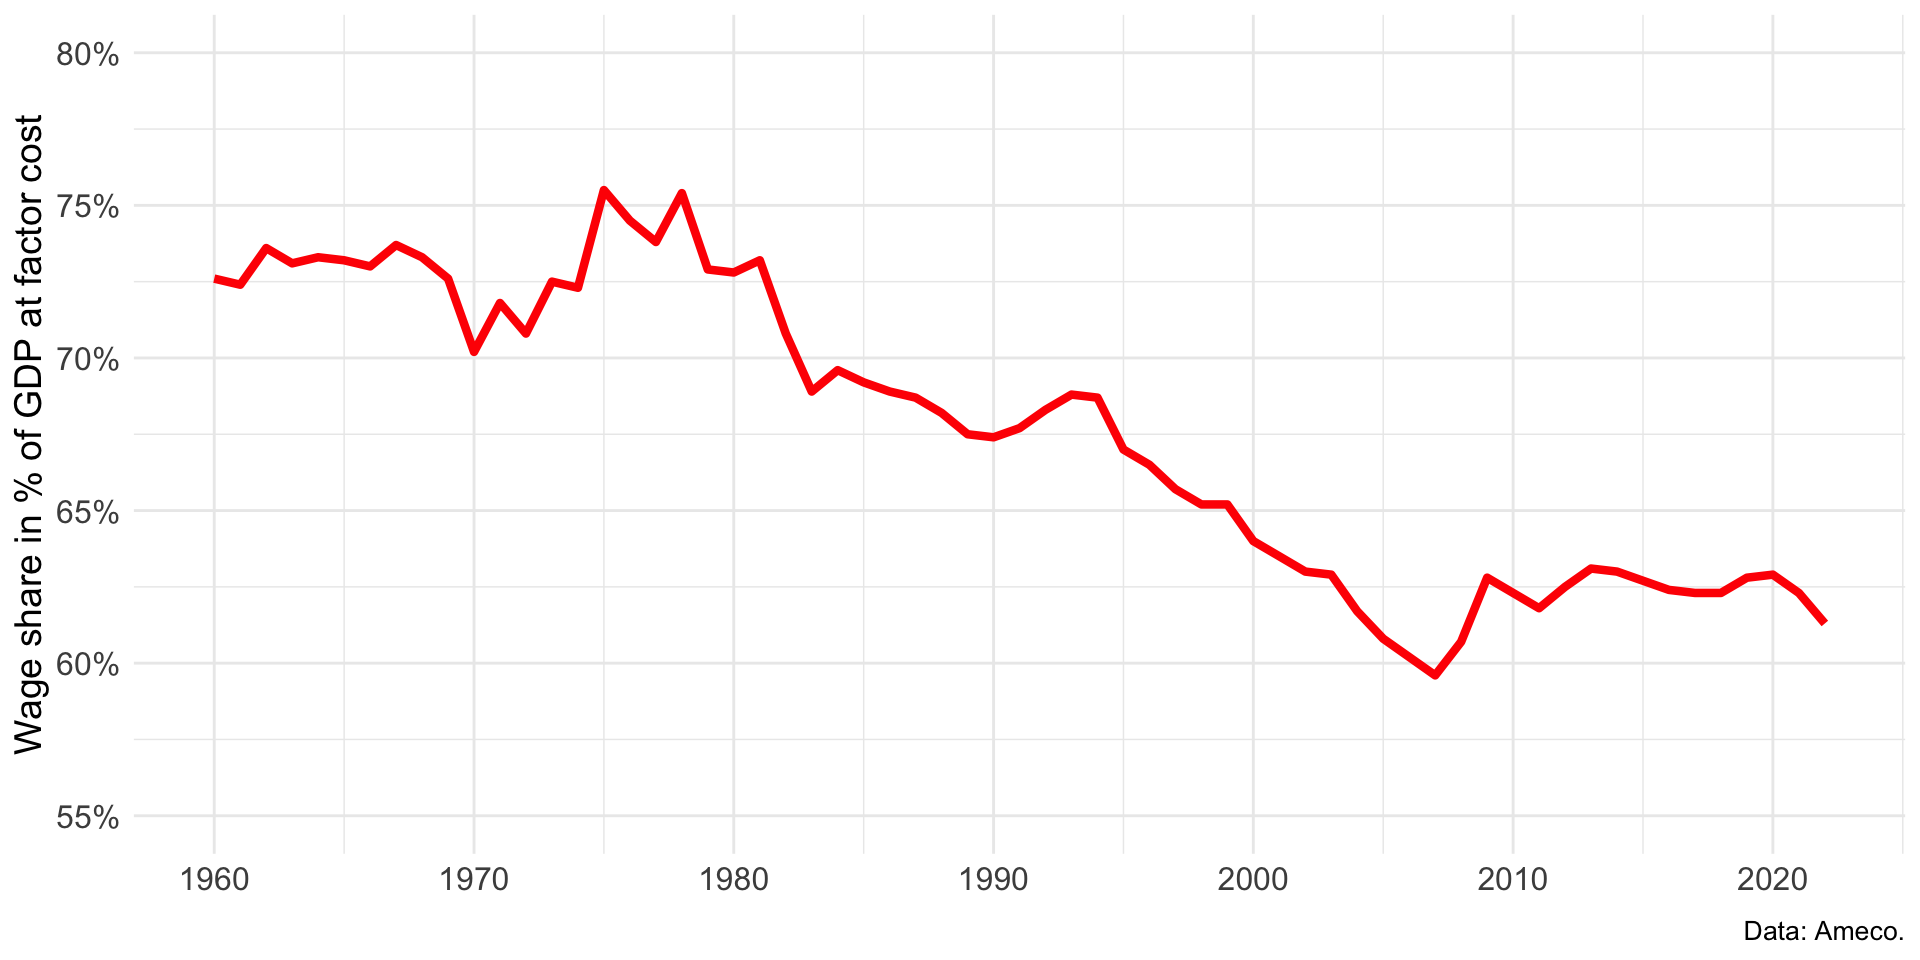
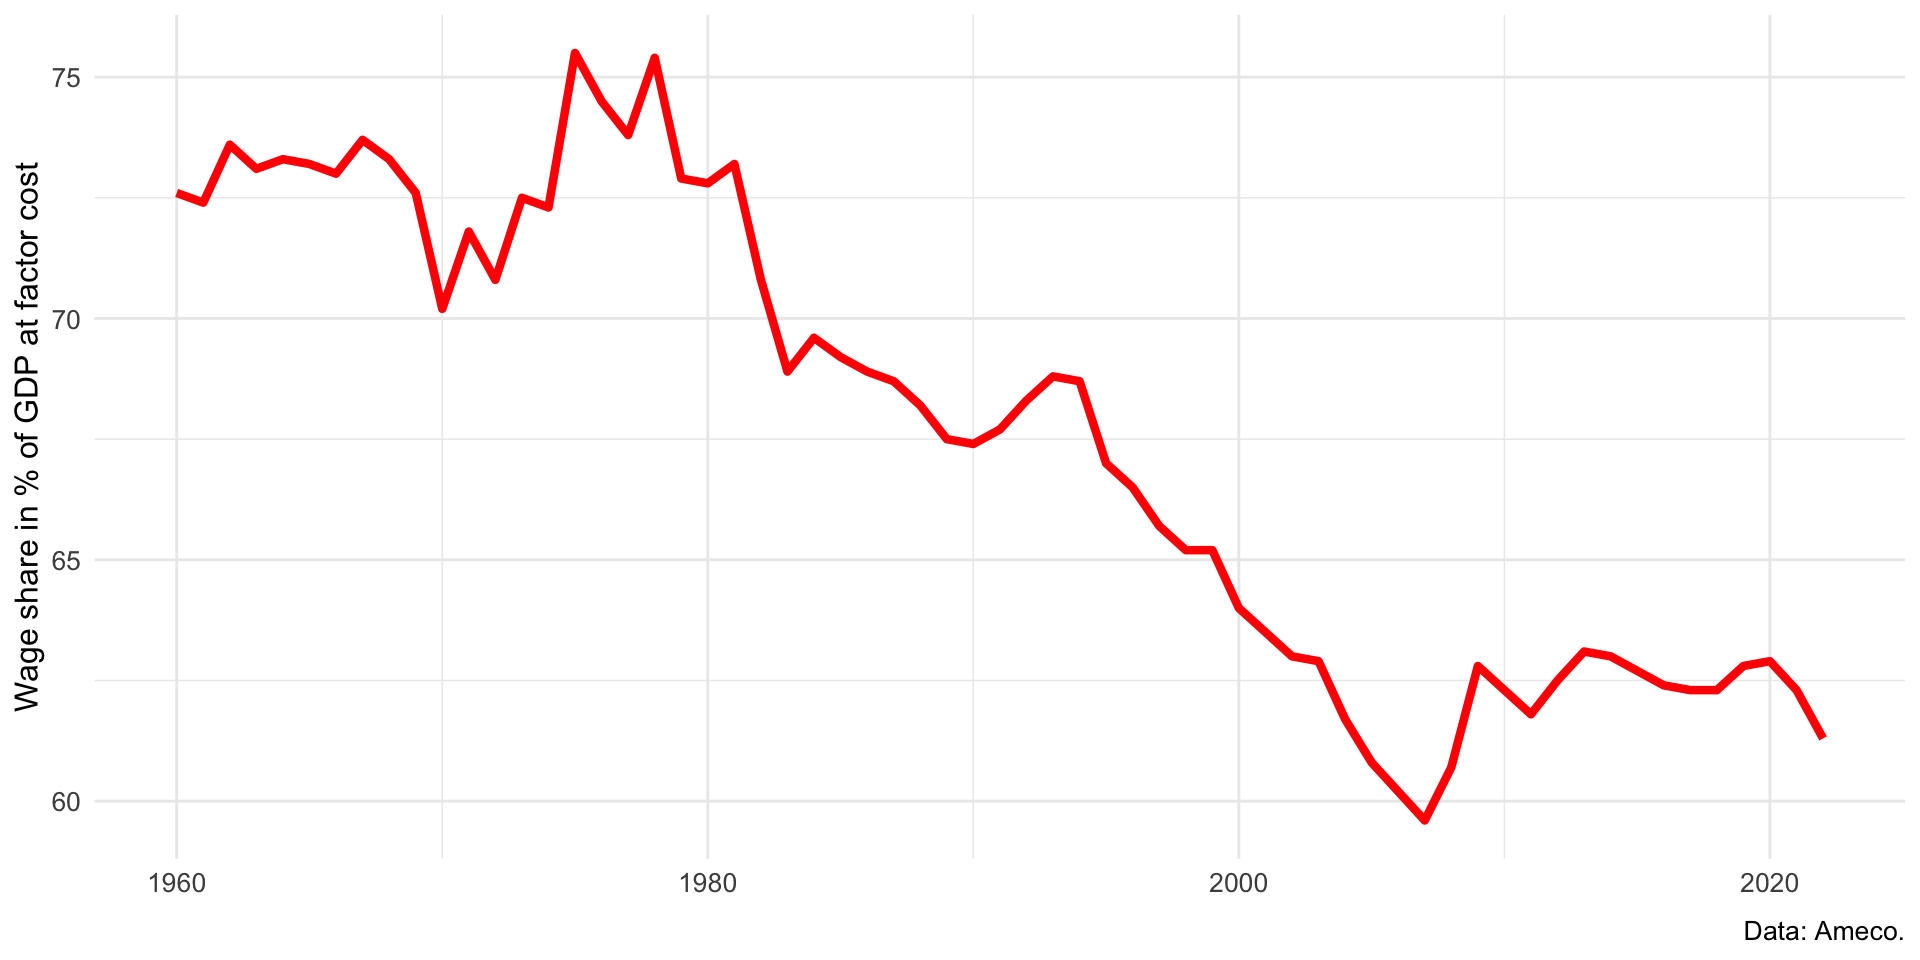
Built site for gh-pages

diff --git a/data/code/07_income.html b/data/code/07_income.html
@@ -211,6 +211,12 @@ code span.wa { color: #60a0b0; font-weight: bold; font-style: italic; } /* Warni
 <p><img src="07_income_files/figure-html/austria-1.png" class="img-fluid" width="960"></p>
 </div>
 </div>
+<p>We can improve the figure by editing the scales of the axes. We add percentage symbols to the y-axis and we remove the white space on the x-axis.</p>
+<div class="cell">
+<div class="cell-output-display">
+<p><img src="07_income_files/figure-html/autwithscales-1.png" class="img-fluid" width="960"></p>
+</div>
+</div>
 </section>
 <section id="wage-shares-in-selected-international-countries" class="level3">
 <h3 class="anchored" data-anchor-id="wage-shares-in-selected-international-countries">Wage shares in selected international countries</h3>
@@ -225,24 +231,29 @@ code span.wa { color: #60a0b0; font-weight: bold; font-style: italic; } /* Warni
 <h3 class="anchored" data-anchor-id="code-for-the-figure">Code for the figure</h3>
 <p>Here is the <strong>clean code</strong> for the figure on the functional distribution.</p>
 <div class="cell">
-<div class="sourceCode cell-code" id="cb1"><pre class="sourceCode r code-with-copy"><code class="sourceCode r"><span id="cb1-1"><a href="#cb1-1" aria-hidden="true" tabindex="-1"></a><span class="fu">library</span>(gghighlight)</span>
-<span id="cb1-2"><a href="#cb1-2" aria-hidden="true" tabindex="-1"></a>wsdata <span class="sc">|&gt;</span></span>
-<span id="cb1-3"><a href="#cb1-3" aria-hidden="true" tabindex="-1"></a>  <span class="fu">ggplot</span>(<span class="fu">aes</span>(<span class="at">x =</span> year, <span class="at">y =</span> value, <span class="at">group =</span> country, <span class="at">color =</span> country)) <span class="sc">+</span></span>
-<span id="cb1-4"><a href="#cb1-4" aria-hidden="true" tabindex="-1"></a>  <span class="fu">geom_line</span>(<span class="at">linewidth =</span> <span class="fl">1.2</span>) <span class="sc">+</span></span>
-<span id="cb1-5"><a href="#cb1-5" aria-hidden="true" tabindex="-1"></a>  <span class="fu">gghighlight</span>(country <span class="sc">==</span> <span class="st">"Austria"</span>, <span class="at">unhighlighted_params =</span> <span class="fu">list</span>(<span class="at">color =</span> <span class="st">"gray80"</span>, <span class="at">alpha =</span> <span class="fl">0.5</span>),</span>
+<div class="sourceCode cell-code" id="cb1"><pre class="sourceCode r code-with-copy"><code class="sourceCode r"><span id="cb1-1"><a href="#cb1-1" aria-hidden="true" tabindex="-1"></a>wsdata <span class="sc">|&gt;</span></span>
+<span id="cb1-2"><a href="#cb1-2" aria-hidden="true" tabindex="-1"></a>  <span class="fu">ggplot</span>(<span class="fu">aes</span>(<span class="at">x =</span> year, <span class="at">y =</span> value, <span class="at">group =</span> country, <span class="at">color =</span> country)) <span class="sc">+</span></span>
+<span id="cb1-3"><a href="#cb1-3" aria-hidden="true" tabindex="-1"></a>  <span class="fu">geom_line</span>(<span class="at">linewidth =</span> <span class="fl">1.4</span>) <span class="sc">+</span></span>
+<span id="cb1-4"><a href="#cb1-4" aria-hidden="true" tabindex="-1"></a>  <span class="fu">gghighlight</span>(country <span class="sc">==</span> <span class="st">"Austria"</span>, </span>
+<span id="cb1-5"><a href="#cb1-5" aria-hidden="true" tabindex="-1"></a>              <span class="at">unhighlighted_params =</span> <span class="fu">list</span>(<span class="at">color =</span> <span class="st">"gray80"</span>, <span class="at">alpha =</span> <span class="fl">0.5</span>, <span class="at">linewidth =</span> <span class="fl">0.9</span>),</span>
 <span id="cb1-6"><a href="#cb1-6" aria-hidden="true" tabindex="-1"></a>              <span class="at">line_label_type =</span> <span class="st">"label_path"</span>, <span class="at">label_key =</span> country, <span class="at">use_group_by =</span> F,</span>
 <span id="cb1-7"><a href="#cb1-7" aria-hidden="true" tabindex="-1"></a>              <span class="at">label_params =</span> <span class="fu">list</span>(<span class="at">size =</span> <span class="dv">3</span>, <span class="at">hjust =</span> <span class="fl">0.94</span>)) <span class="sc">+</span></span>
-<span id="cb1-8"><a href="#cb1-8" aria-hidden="true" tabindex="-1"></a>  <span class="fu">scale_color_manual</span>(<span class="at">name =</span> <span class="cn">NULL</span>, <span class="at">values =</span> <span class="fu">met.brewer</span>(<span class="st">"Austria"</span>),) <span class="sc">+</span></span>
-<span id="cb1-9"><a href="#cb1-9" aria-hidden="true" tabindex="-1"></a>  <span class="fu">scale_x_date</span>(<span class="at">breaks=</span> <span class="fu">seq</span>(<span class="fu">min</span>(wsdata<span class="sc">$</span>year),<span class="fu">max</span>(wsdata<span class="sc">$</span>year), <span class="at">by =</span> <span class="st">"10 years"</span>), <span class="at">date_labels =</span> <span class="st">"%Y"</span>) <span class="sc">+</span></span>
-<span id="cb1-10"><a href="#cb1-10" aria-hidden="true" tabindex="-1"></a>  <span class="fu">scale_y_continuous</span>(<span class="at">limits =</span> <span class="fu">c</span>(<span class="dv">55</span>,<span class="dv">80</span>), <span class="at">labels =</span> scales<span class="sc">::</span><span class="fu">percent_format</span>(<span class="at">scale =</span> <span class="dv">1</span>)) <span class="sc">+</span></span>
-<span id="cb1-11"><a href="#cb1-11" aria-hidden="true" tabindex="-1"></a>  <span class="fu">labs</span>(<span class="at">y =</span> <span class="st">"Wage share in % of GDP at factor cost"</span>, <span class="at">x =</span> <span class="cn">NULL</span>, </span>
-<span id="cb1-12"><a href="#cb1-12" aria-hidden="true" tabindex="-1"></a>      <span class="at">caption =</span> <span class="st">"Data: Ameco."</span>) <span class="sc">+</span></span>
-<span id="cb1-13"><a href="#cb1-13" aria-hidden="true" tabindex="-1"></a>  <span class="fu">theme_minimal</span>() <span class="sc">+</span> </span>
-<span id="cb1-14"><a href="#cb1-14" aria-hidden="true" tabindex="-1"></a>  <span class="fu">theme</span>(<span class="at">legend.text =</span> <span class="fu">element_text</span>(<span class="at">size =</span> <span class="dv">14</span>),</span>
-<span id="cb1-15"><a href="#cb1-15" aria-hidden="true" tabindex="-1"></a>        <span class="at">legend.position =</span> <span class="fu">c</span>(<span class="fl">0.8</span>,<span class="fl">0.8</span>),</span>
-<span id="cb1-16"><a href="#cb1-16" aria-hidden="true" tabindex="-1"></a>        <span class="at">plot.caption =</span> <span class="fu">element_text</span>(<span class="at">size =</span> <span class="dv">10</span>, <span class="at">margin =</span> <span class="fu">margin</span>(<span class="at">t =</span> <span class="dv">1</span>, <span class="at">unit =</span> <span class="st">"lines"</span>)),</span>
-<span id="cb1-17"><a href="#cb1-17" aria-hidden="true" tabindex="-1"></a>        <span class="at">axis.title =</span> <span class="fu">element_text</span>(<span class="at">size =</span> <span class="dv">14</span>),</span>
-<span id="cb1-18"><a href="#cb1-18" aria-hidden="true" tabindex="-1"></a>        <span class="at">axis.text =</span> <span class="fu">element_text</span>(<span class="at">size =</span> <span class="dv">12</span>))</span></code><button title="Copy to Clipboard" class="code-copy-button"><i class="bi"></i></button></pre></div>
+<span id="cb1-8"><a href="#cb1-8" aria-hidden="true" tabindex="-1"></a>  <span class="fu">geom_text_repel</span>(<span class="at">data =</span> wsdata <span class="sc">|&gt;</span> <span class="fu">slice_max</span>(year, <span class="at">n=</span><span class="dv">1</span>, <span class="at">by=</span>country) <span class="sc">|&gt;</span> <span class="fu">filter</span>(<span class="sc">!</span>country <span class="sc">==</span> <span class="st">"Austria"</span>), </span>
+<span id="cb1-9"><a href="#cb1-9" aria-hidden="true" tabindex="-1"></a>                  <span class="fu">aes</span>(<span class="at">x =</span> year, <span class="at">y =</span> value, <span class="at">label =</span> country),</span>
+<span id="cb1-10"><a href="#cb1-10" aria-hidden="true" tabindex="-1"></a>                  <span class="at">size =</span> <span class="fl">2.5</span>, <span class="at">color =</span> <span class="st">"gray70"</span>, <span class="at">hjust =</span> <span class="dv">0</span>, <span class="at">direction =</span> <span class="st">"y"</span>, <span class="at">nudge_x =</span> <span class="dv">600</span>,</span>
+<span id="cb1-11"><a href="#cb1-11" aria-hidden="true" tabindex="-1"></a>                  <span class="at">min.segment.length =</span> <span class="fu">unit</span>(<span class="dv">2</span>, <span class="st">"pt"</span>), <span class="at">segment.size =</span> <span class="fl">0.1</span>) <span class="sc">+</span></span>
+<span id="cb1-12"><a href="#cb1-12" aria-hidden="true" tabindex="-1"></a>  <span class="fu">scale_color_manual</span>(<span class="at">name =</span> <span class="cn">NULL</span>, <span class="at">values =</span> <span class="fu">met.brewer</span>(<span class="st">"Austria"</span>),) <span class="sc">+</span></span>
+<span id="cb1-13"><a href="#cb1-13" aria-hidden="true" tabindex="-1"></a>  <span class="fu">scale_x_date</span>(<span class="at">breaks=</span> <span class="fu">seq</span>(<span class="fu">min</span>(wsdata<span class="sc">$</span>year),<span class="fu">max</span>(wsdata<span class="sc">$</span>year), <span class="at">by =</span> <span class="st">"10 years"</span>), <span class="at">date_labels =</span> <span class="st">"%Y"</span>,</span>
+<span id="cb1-14"><a href="#cb1-14" aria-hidden="true" tabindex="-1"></a>               <span class="at">limits =</span> <span class="fu">c</span>(<span class="fu">as.Date</span>(<span class="st">"1960-01-01"</span>), <span class="fu">as.Date</span>(<span class="st">"2026-01-01"</span>))) <span class="sc">+</span></span>
+<span id="cb1-15"><a href="#cb1-15" aria-hidden="true" tabindex="-1"></a>  <span class="fu">scale_y_continuous</span>(<span class="at">limits =</span> <span class="fu">c</span>(<span class="dv">55</span>,<span class="dv">80</span>), <span class="at">labels =</span> scales<span class="sc">::</span><span class="fu">percent_format</span>(<span class="at">scale =</span> <span class="dv">1</span>)) <span class="sc">+</span></span>
+<span id="cb1-16"><a href="#cb1-16" aria-hidden="true" tabindex="-1"></a>  <span class="fu">labs</span>(<span class="at">y =</span> <span class="cn">NULL</span>, <span class="at">x =</span> <span class="cn">NULL</span>, <span class="at">caption =</span> <span class="st">"Data: Ameco."</span>,</span>
+<span id="cb1-17"><a href="#cb1-17" aria-hidden="true" tabindex="-1"></a>       <span class="at">title =</span> <span class="st">"Wage share in selected countries"</span>, <span class="at">subtitle =</span> <span class="st">"Wage share in % of GDP at factor cost"</span>) <span class="sc">+</span></span>
+<span id="cb1-18"><a href="#cb1-18" aria-hidden="true" tabindex="-1"></a>  <span class="fu">theme_minimal</span>() <span class="sc">+</span> </span>
+<span id="cb1-19"><a href="#cb1-19" aria-hidden="true" tabindex="-1"></a>  <span class="fu">theme</span>(<span class="at">panel.grid.minor =</span> <span class="fu">element_blank</span>(),</span>
+<span id="cb1-20"><a href="#cb1-20" aria-hidden="true" tabindex="-1"></a>        <span class="at">plot.title =</span> <span class="fu">element_text</span>(<span class="at">size =</span> <span class="dv">14</span>),</span>
+<span id="cb1-21"><a href="#cb1-21" aria-hidden="true" tabindex="-1"></a>        <span class="at">plot.caption =</span> <span class="fu">element_text</span>(<span class="at">size =</span> <span class="dv">10</span>, <span class="at">margin =</span> <span class="fu">margin</span>(<span class="at">t =</span> <span class="dv">1</span>, <span class="at">unit =</span> <span class="st">"lines"</span>)),</span>
+<span id="cb1-22"><a href="#cb1-22" aria-hidden="true" tabindex="-1"></a>        <span class="at">axis.title =</span> <span class="fu">element_text</span>(<span class="at">size =</span> <span class="dv">12</span>),</span>
+<span id="cb1-23"><a href="#cb1-23" aria-hidden="true" tabindex="-1"></a>        <span class="at">axis.text =</span> <span class="fu">element_text</span>(<span class="at">size =</span> <span class="dv">10</span>))</span></code><button title="Copy to Clipboard" class="code-copy-button"><i class="bi"></i></button></pre></div>
 </div>
 
 
